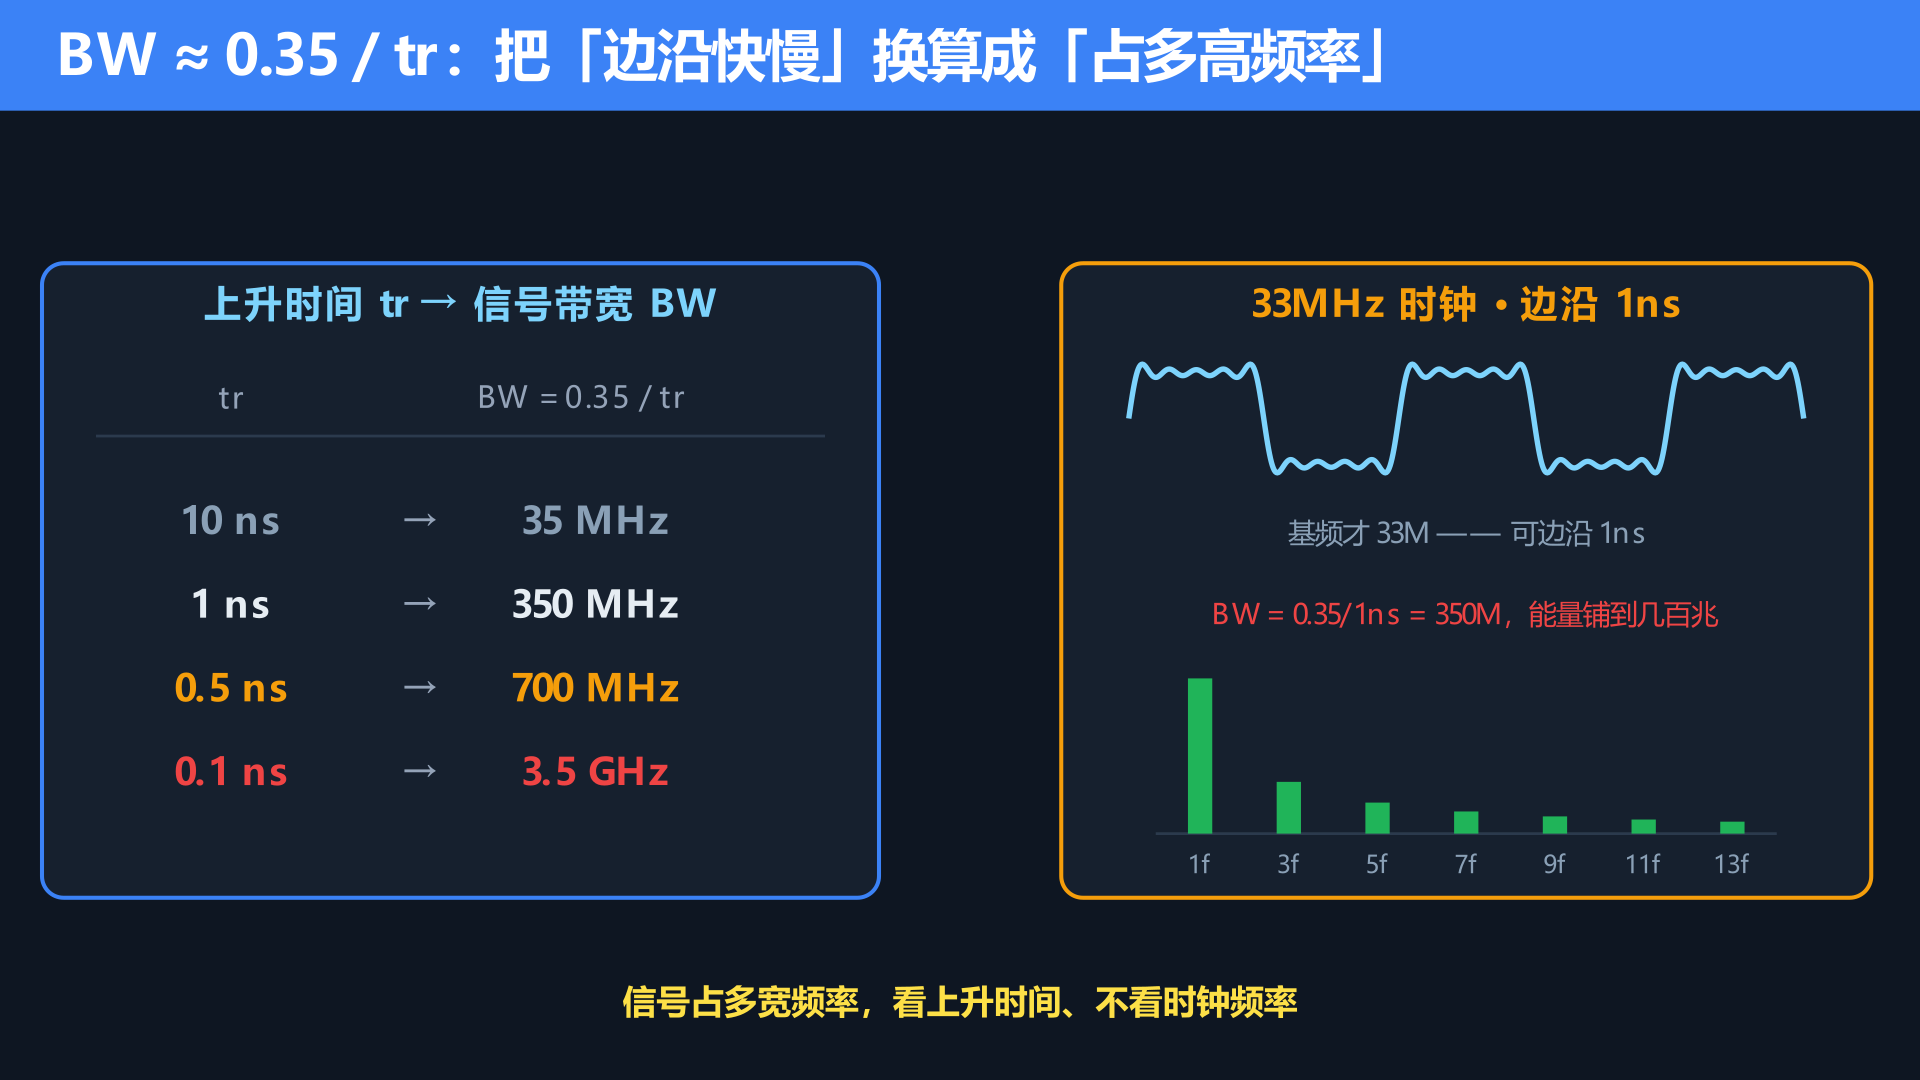
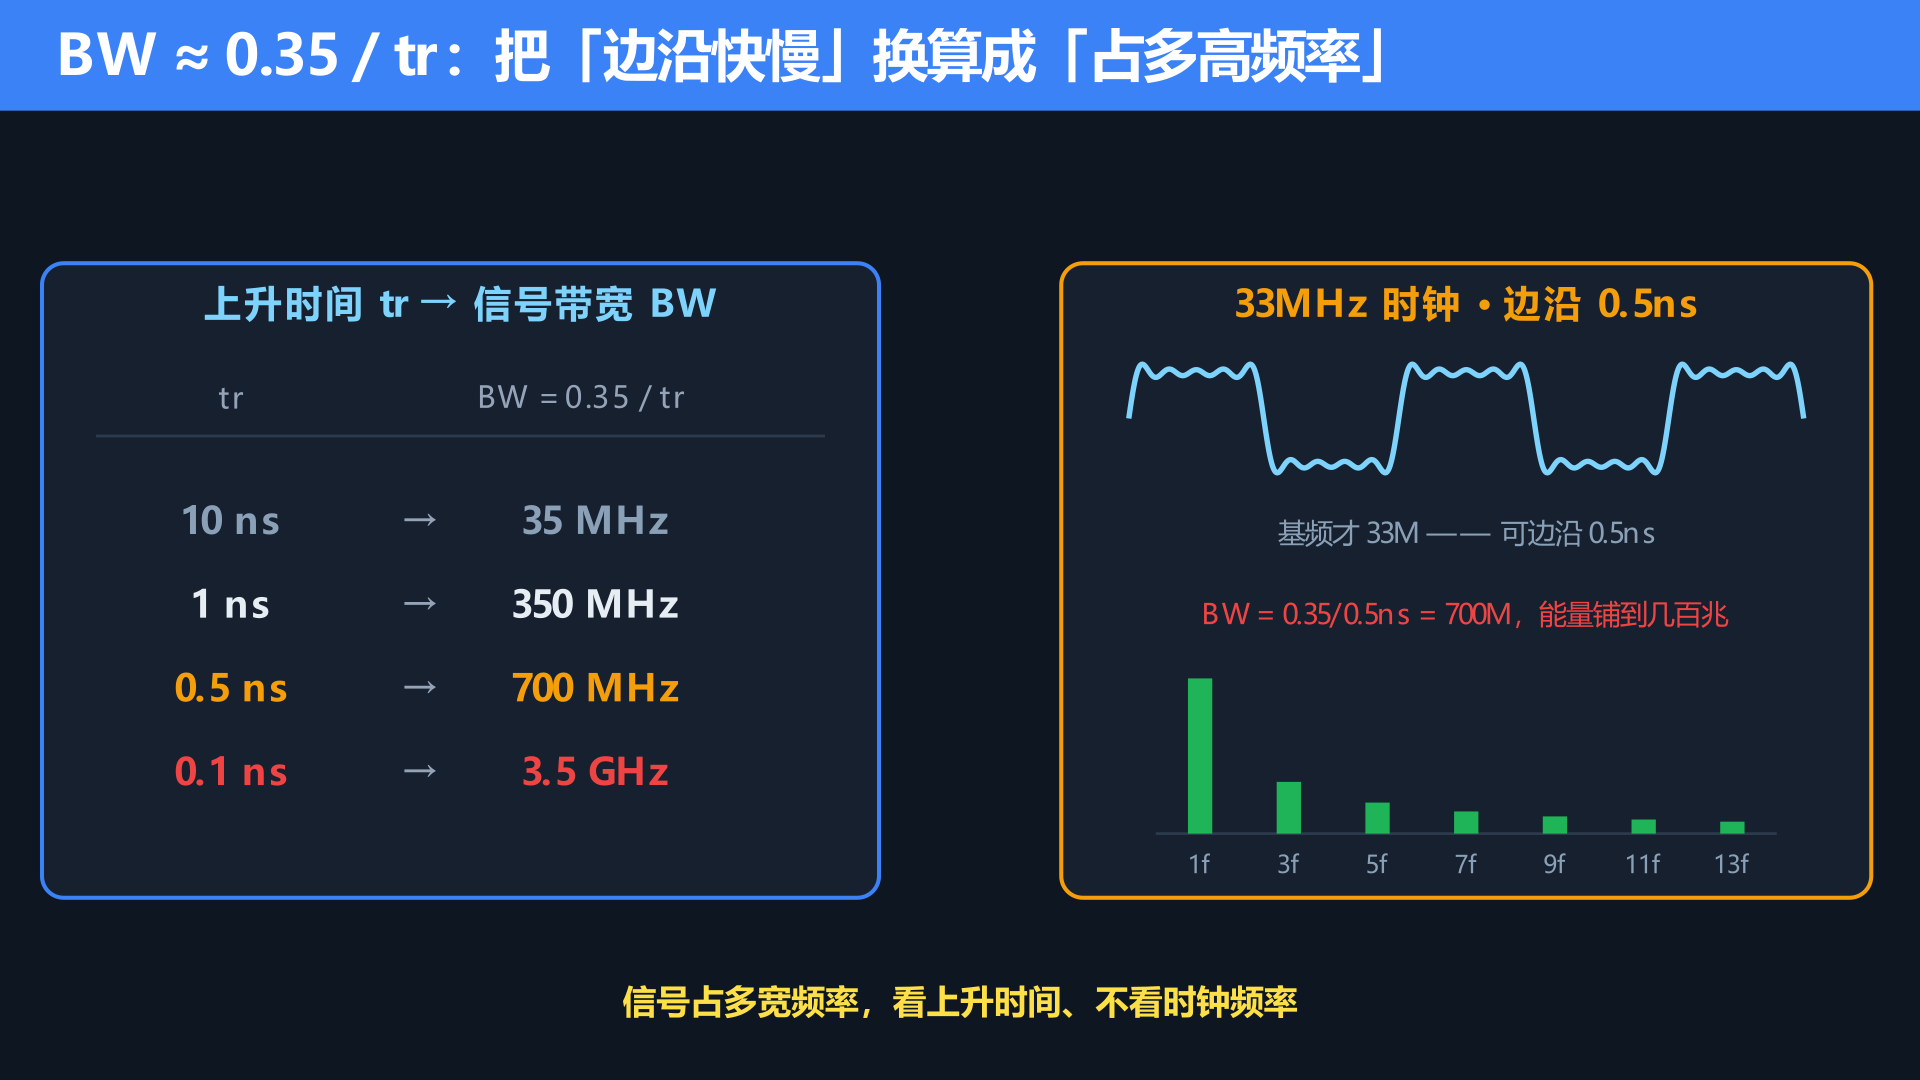
fix(29): 统一 33M 时钟边沿为 0.5ns/700MHz，修正图4与正文数值矛盾；加速查卡收藏引导
Copilot-Session: f9104e14-e017-4b16-8929-b29a5b9ca02c

diff --git a/articles/29.md b/articles/29.md
@@ -5,7 +5,7 @@ outline: [2,3]
 
 # 上升时间、边沿速率与带宽：33M 的时钟，为什么能在 300M 上超标？——高频，全是"陡边沿"藏出来的
 
-<div class="article-meta"><span class="badge">📘 模块三 · 信号完整性 SI · 上升时间/边沿/带宽</span><span class="badge">⏱ 约 16 分钟</span><span class="badge qr">🔧 含工程师速查</span></div>
+<div class="article-meta"><span class="badge">📘 模块三 · 信号完整性 SI · 上升时间/边沿/带宽</span><span class="badge">⏱ 约 17 分钟</span><span class="badge qr">🔧 含工程师速查</span></div>
 
 
 产线上一块板子，一路 **33MHz** 的时钟，功能全对，可一上 EMC 就在 **300MHz、500MHz** 一根根冒尖超标。工程师第一反应是："时钟才 33 兆，哪来的三百兆？" 于是拿示波器抓这条时钟——一台 **100MHz** 的老示波器，测出来上升沿**圆圆的、上升时间 3.5ns**，波形干干净净，连过冲都没有，看着"挺健康"，判定信号没问题。
@@ -42,7 +42,7 @@ outline: [2,3]
 
 ![图3动图：从单根基波正弦开始，逐个叠加3/5/7/9/11次谐波，波形从圆滑正弦逐步变陡、逼近方波，直观展示"陡边沿=高频谐波之和"](/images/29/ill02b_harmonics_anim.gif)
 
-> **一句话记住：高频不是"频率高"，是"边沿陡"。方波 = 基波 + 一串奇次谐波，边沿越陡，含的高次谐波越多、伸得越高。33M 的慢时钟能在 300M 超标，就是因为它的边沿只有 1ns 左右，里头藏着几百兆的高频。想压高频，先想能不能放缓边沿。**
+> **一句话记住：高频不是"频率高"，是"边沿陡"。方波 = 基波 + 一串奇次谐波，边沿越陡，含的高次谐波越多、伸得越高。33M 的慢时钟能在 300M 超标，就是因为它的边沿只有 0.5ns 左右，里头藏着几百兆的高频。想压高频，先想能不能放缓边沿。**
 
 ---
 
@@ -63,9 +63,9 @@ outline: [2,3]
 | 0.5 ns | 700 MHz |
 | 0.1 ns | 3.5 GHz |
 
-看这张表你就明白开头那个"33M 时钟辐射 300M"的怪事了：**它的时钟频率是 33M，但边沿是 1ns，信号带宽 ＝ 0.35 ÷ 1ns ＝ 350MHz。** 所以频谱上的能量一直铺到三四百兆，300M、500M 冒尖超标，一点都不奇怪。**决定一个信号"占多宽频率"的，是它的上升时间，不是它的重复频率。**
+看这张表你就明白开头那个"33M 时钟辐射 300M"的怪事了：**它的时钟频率是 33M，但边沿是 0.5ns，信号带宽 ＝ 0.35 ÷ 0.5ns ＝ 700MHz。** 所以频谱上的能量一直铺到七八百兆，300M、500M 冒尖超标，一点都不奇怪。**决定一个信号"占多宽频率"的，是它的上升时间，不是它的重复频率。**
 
-![图4：带宽公式BW≈0.35/tr图解。左边tr→BW换算表(10ns→35M/1ns→350M/0.5ns→700M/0.1ns→3.5G)；右边示意33M时钟、边沿1ns，虽然基频只有33M，但信号带宽铺到350M，能量一直延伸到几百兆——慢时钟也能辐射高频](/images/29/ill03_bw.png)
+![图4：带宽公式BW≈0.35/tr图解。左边tr→BW换算表(10ns→35M/1ns→350M/0.5ns→700M/0.1ns→3.5G)；右边示意33M时钟、边沿0.5ns，虽然基频只有33M，但信号带宽铺到700M，能量一直延伸到几百兆——慢时钟也能辐射高频](/images/29/ill03_bw.png)
 
 还有个相关的概念叫**拐点频率（knee frequency）**：f_knee ≈ 0.5 ÷ tr。它标的是"绝大部分能量的上限"——低于拐点的频率成分强、要认真对待，高于拐点的迅速衰减、影响小。0.35/tr 和 0.5/tr 系数略有不同，但结论一致：**边沿越快，能量伸得越高。** 工程上你只要记住 **0.35/tr 这一条**，用来估信号带宽、选仪器，足够了。
 
@@ -165,6 +165,8 @@ outline: [2,3]
 到这里，SI 的这条底层逻辑就闭环了：**边沿陡 → 高频多（带宽 0.35/tr）→ 过冲、振铃、EMC、反射全找上门 → 测的时候还得用足够带宽的仪器，才不会自欺欺人。** 上一篇治反射的端接、这一篇的边沿与带宽，其实是一体两面——**都是在跟"高频"打交道。**
 
 ![图8：本篇速查卡。核心公式BW≈0.35/tr、tr_测得=√(tr信号²+tr示波器²)、5倍法则；tr→BW速查表；示波器/采样率/探头选型判据；常见坑(用低带宽示波器测出假达标/探头拖后腿/长地线引入振铃/10-90与20-80口径混用)](/images/29/ill07_quickref.png)
+
+> 👆 **这张速查卡建议截图收藏**：估带宽、选示波器/采样率/探头、避坑判据，一图全在，下次选仪器直接照着套。
 
 ---
 